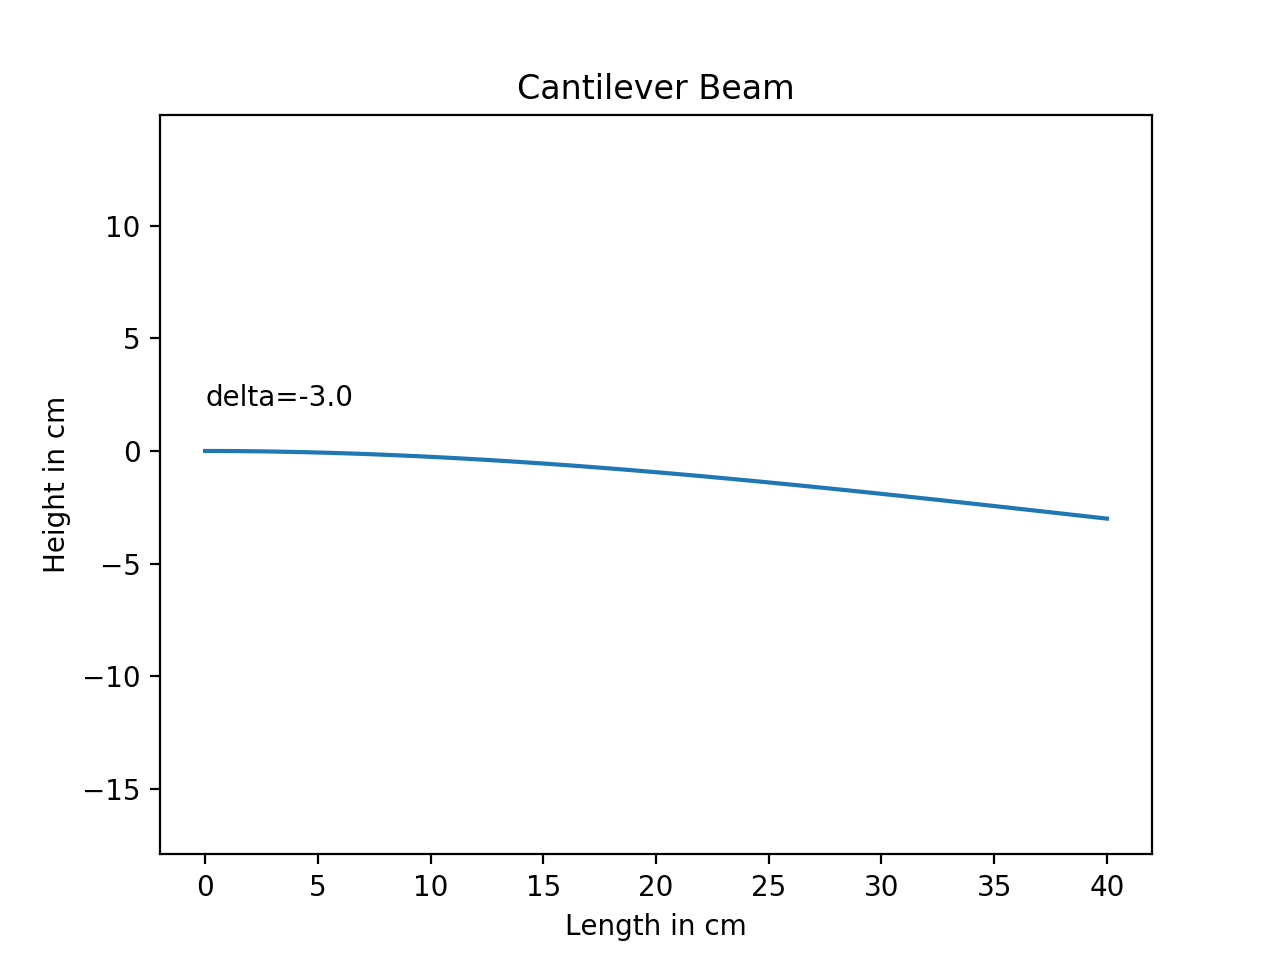
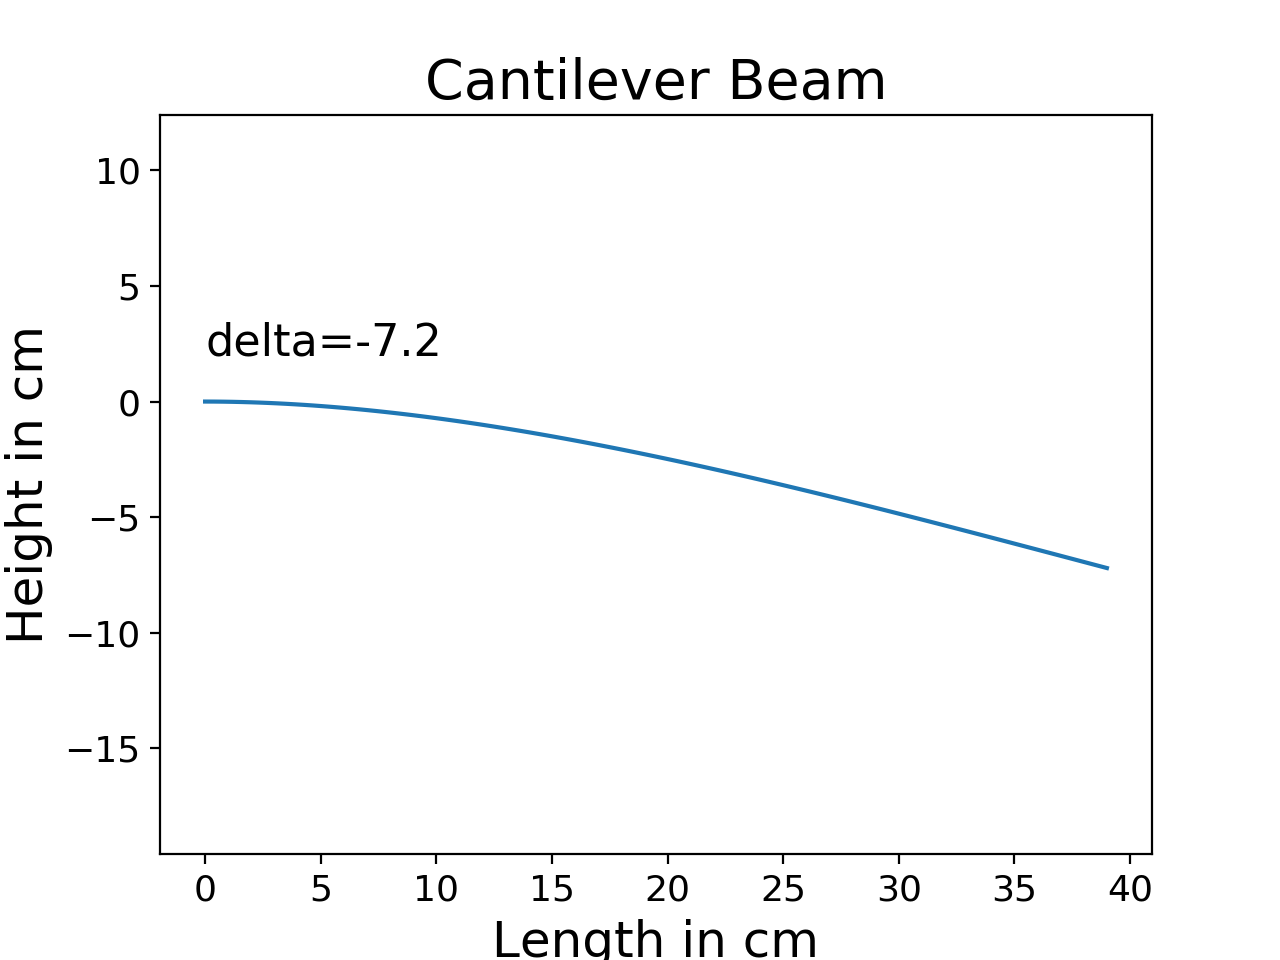
change fontsize

diff --git a/Beam.py b/Beam.py
@@ -165,33 +165,36 @@ def Simply_Supported_Beam(delta):
 def plot_simply_supported_beam(x,y):
     matplotlib.pyplot.axis([0, length, -20, 5])
     matplotlib.pyplot.plot(x,y)
-    matplotlib.pyplot.xlabel('Length in cm')
-    matplotlib.pyplot.ylabel('Height in cm')
-    matplotlib.pyplot.title('Simply Supported Beam')
+    matplotlib.pyplot.xlabel('Length in cm',fontsize=18)
+    matplotlib.pyplot.ylabel('Height in cm',fontsize=18)
+    matplotlib.pyplot.title('Simply Supported Beam',fontsize=20)
     matplotlib.pyplot.axis('equal')
-    matplotlib.pyplot.text(x=0,y=2,s='delta='+str(delta))
+    matplotlib.pyplot.tick_params(labelsize=13)
+    matplotlib.pyplot.text(x=0,y=2,s='delta='+str(delta),fontsize=16)
     matplotlib.pyplot.show()
 
 
 def plot_fixed_end_beam(x,y):
     matplotlib.pyplot.axis([0, length, -20, 5])
     matplotlib.pyplot.plot(x,y)
-    matplotlib.pyplot.xlabel('Length in cm')
-    matplotlib.pyplot.ylabel('Height in cm')
-    matplotlib.pyplot.title('Fixed End Beam')
+    matplotlib.pyplot.xlabel('Length in cm',fontsize=17)
+    matplotlib.pyplot.ylabel('Height in cm',fontsize=17)
+    matplotlib.pyplot.title('Fixed End Beam', fontsize=20)
     matplotlib.pyplot.axis('equal')
-    matplotlib.pyplot.text(x=0,y=2,s='delta='+str(delta))
+    matplotlib.pyplot.tick_params(labelsize=13)
+    matplotlib.pyplot.text(x=0,y=2,s='delta='+str(delta), fontsize=16)
     matplotlib.pyplot.show()
 
 
 def plot_cantilever_beam(x, y):
     matplotlib.pyplot.axis([0, length, -20, 5])
     matplotlib.pyplot.plot(x, y)
-    matplotlib.pyplot.xlabel('Length in cm')
-    matplotlib.pyplot.ylabel('Height in cm')
-    matplotlib.pyplot.title('Cantilever Beam')
+    matplotlib.pyplot.xlabel('Length in cm',fontsize=18)
+    matplotlib.pyplot.ylabel('Height in cm',fontsize=18)
+    matplotlib.pyplot.title('Cantilever Beam',fontsize=20)
     matplotlib.pyplot.axis('equal')
-    matplotlib.pyplot.text(x=0, y=2, s='delta=' + str(delta))
+    matplotlib.pyplot.tick_params(labelsize=13)
+    matplotlib.pyplot.text(x=0, y=2, s='delta=' + str(delta), fontsize=16)
     matplotlib.pyplot.show()
 
 
@@ -204,8 +207,8 @@ if __name__ == "__main__":
     y=Simply_Supported_Beam(delta)
     plot_simply_supported_beam(x,y)
 
-    delta = -1.5
-    length=40.8
+    delta = -1.
+    length=38
     for i in range(steps+1):
         x[i]=length*i/steps
     y = Fixed_End_Beam(delta)
